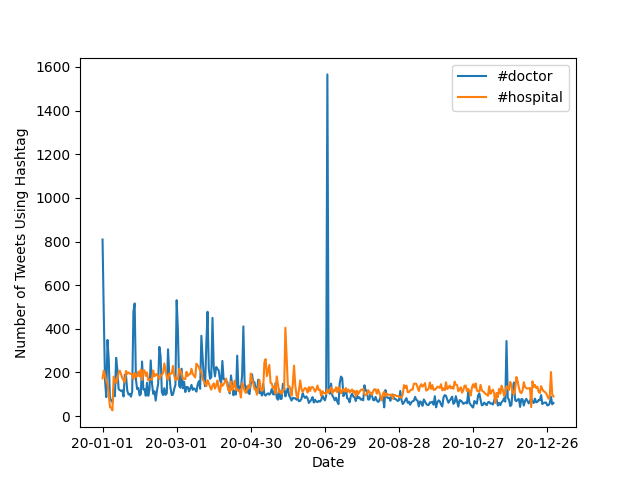
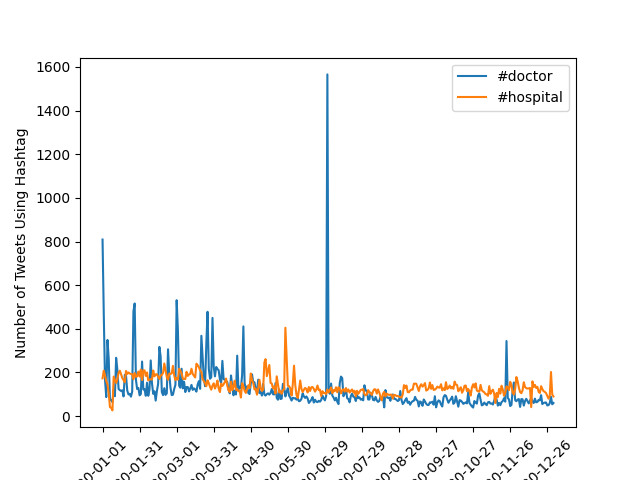
test 23

Changed region(s): [[0.0938, 0.9062, 0.9062, 1.0], [0.1875, 0.9688, 0.2188, 1.0], [0.125, 0.9688, 0.1562, 1.0]]

diff --git a/src/alternative_reduce.py b/src/alternative_reduce.py
@@ -13,9 +13,9 @@ import matplotlib
 matplotlib.use('Agg')
 import matplotlib.pyplot as plt
 from collections import Counter,defaultdict
-from datetime import datetime
 
 # dataset creation
+
 total = {}
 
 for hashtag in args.input_paths:
@@ -33,7 +33,7 @@ for hashtag in args.input_paths:
                             for key in tweets[k]:
                                 number_of_tweets += tweets[k][key]
                 days_tweets[date] = number_of_tweets
-                print("number_of_tweets=", number_of_tweets)
+                # print("number_of_tweets=", number_of_tweets)
     total[hashtag] = days_tweets
 
 # plotting time
@@ -49,8 +49,6 @@ for hashtag, total_days in total.items():
 plt.rcParams["figure.figsize"] = [12, 8]
 plt.xlabel('Date')
 plt.ylabel('Number of Tweets Using Hashtag')
-new_dates = [datetime.strptime(d, '%y-%m-%d') for d in dates]
-#plt.xticks(range(len(keys))[::60], dates[::60], rotate = 45)
-plt.xticks(range(len(keys))[::60], dates[::60])
+plt.xticks(range(len(keys))[::30], dates[::30], rotation = 45)
 plt.legend()
 plt.savefig(f'{args.input_paths}.png')
